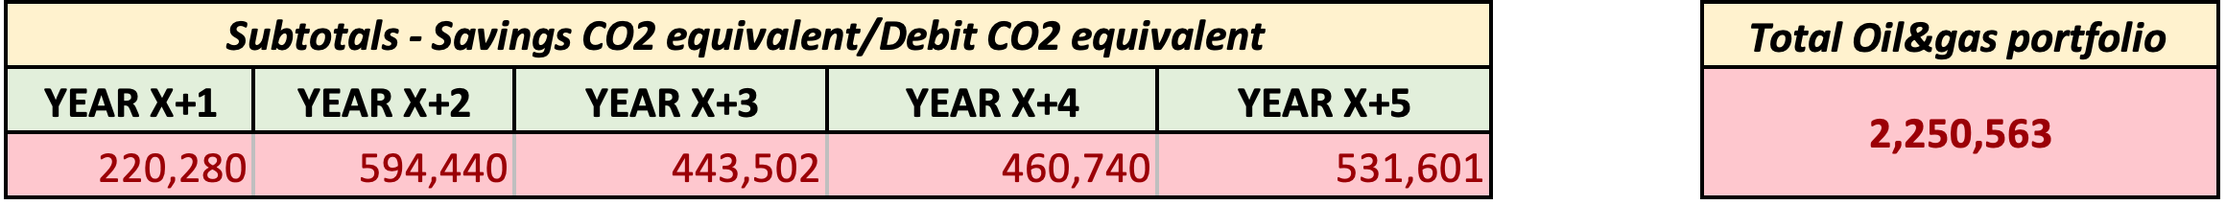
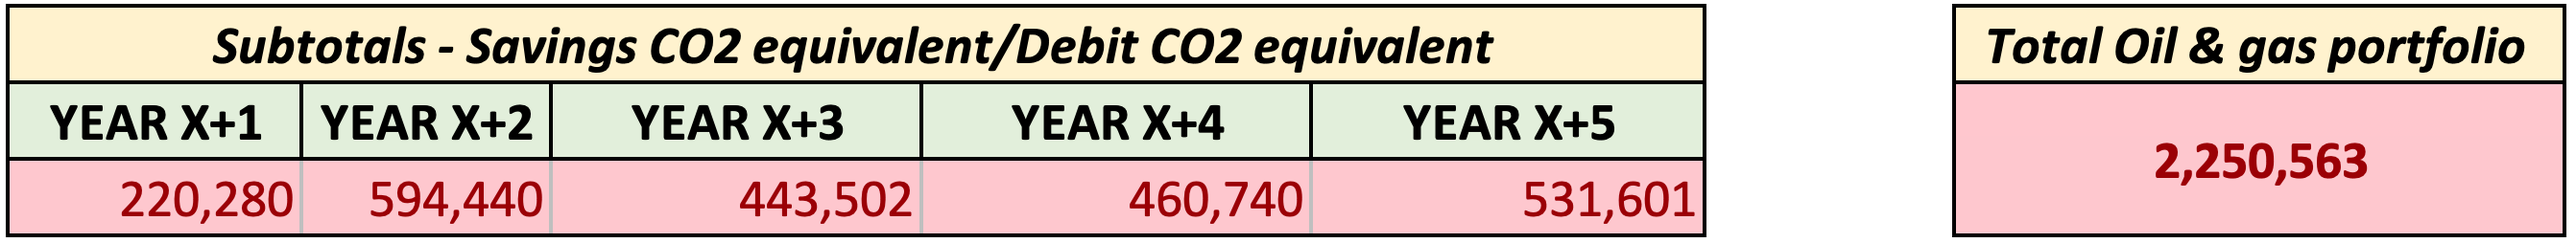
images

diff --git a/blogs/NetZero/netzero.md b/blogs/NetZero/netzero.md
@@ -150,8 +150,8 @@ name: scenario_2
 
 ```{figure} images/scene2.png
 ---
-width: 970px
-height: 152px
+width: 1158px
+height: 107px
 name: scene_2
 ---
 
@@ -182,8 +182,8 @@ name: scenario_3
 
 ```{figure} images/scene3.png 
 ---
-width: 965px
-height: 147px
+width: 1158px
+height: 107px
 name: scene_3
 ---
 
@@ -218,7 +218,7 @@ name: scenario_4
 
 ```{figure} images/scene4.png
 ---
-width: 1160px
+width: 1158px
 height: 107px
 name: scene_4
 ---
@@ -256,12 +256,7 @@ Utilising blockchain technology can significantly enhance the transparency, secu
 
 In summary, the proposed token-based Net Zero banking model represents a significant shift in the industry. By adopting tokens, banks can more effectively navigate the complexities of emissions reductions. This model's key components include maximising revenues, introducing tokens, implementing a central organisational structure, and integrating blockchain technology.
 
-Key Findings:
-
-1. **As-Is Net Zero Mechanics:** We have identified pain points in the current use of NACE codes and the EVIC model. It's crucial to consider the NACE of the loan (new business and stock) rather than the NACE related to the company. Additionally, the significance of loans in relation to a single company or economic group should be weighed against the bank’s balance sheet, rather than the other way around.
-2. **Efficient Carbon Credit Management:** The token-based model facilitates the efficient management of CO2 equivalent units, ensuring that emissions reduction targets are met while maximising business opportunities.
-
-3. **Blockchain Integration:** The integration of blockchain technology enhances the transparency and security of CO2 token transactions, fostering trust among stakeholders.
+The key findings highlight areas for improvement in As-Is Net Zero mechanics, suggesting a shift in focus to the NACE of loans rather than companies, and assessing loans based on their impact on the bank's balance sheet. Efficient carbon credit management can be achieved through a token-based model that manages CO2 equivalent units effectively, aiding in meeting emissions targets while maximising business opportunities. Furthermore, Blockchain Integration enhances the transparency and security of CO2 token transactions, fostering trust among stakeholders.
 
 Future research on the token-based Net Zero banking model should focus on two key areas: the effectiveness of transferring CO2 equivalent tokens within the banking system, particularly considering penalties and valuation over time, and the impact of this model on banks' business models, risk management, and client relationships. This exploration is crucial for advancing a sustainable and financially viable approach in the banking sector.
 
